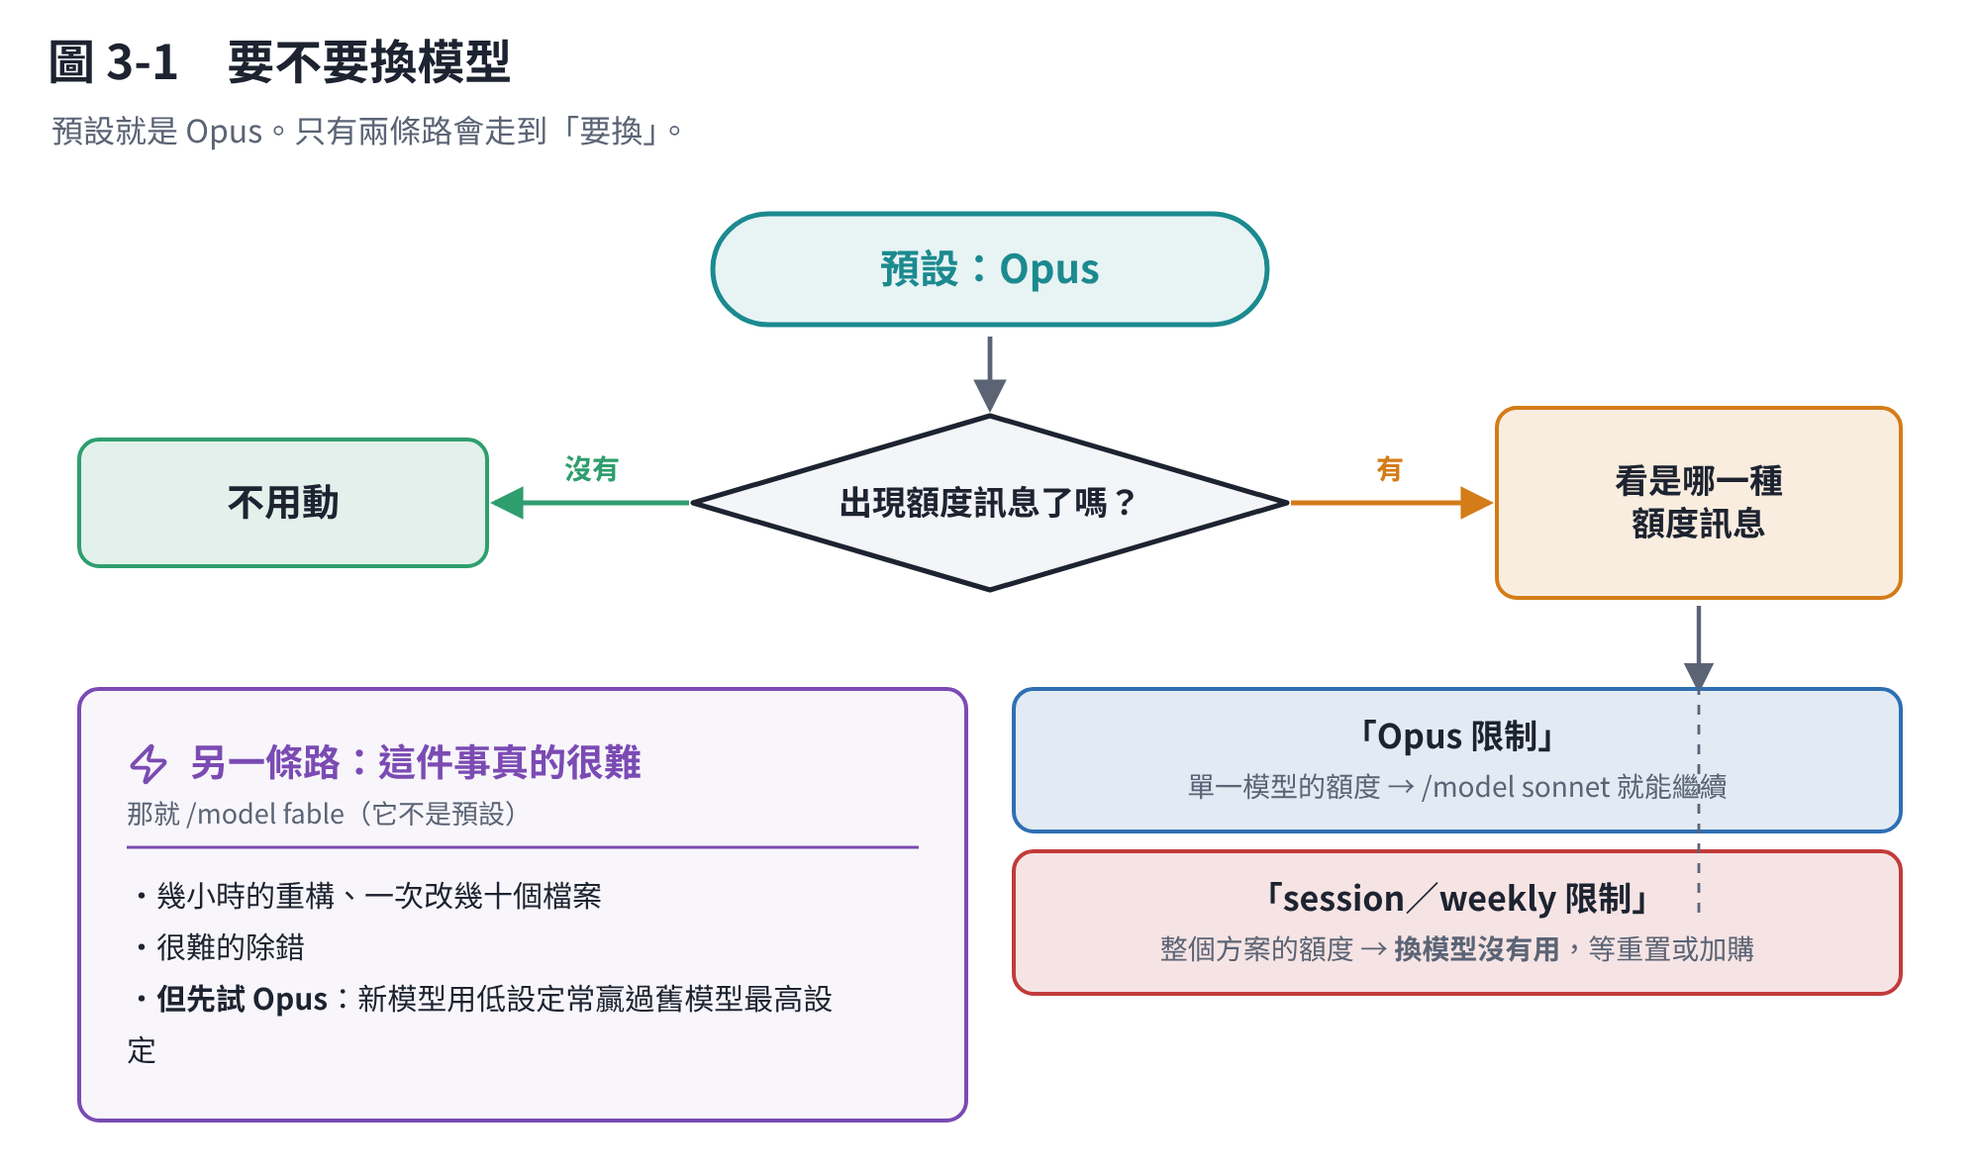
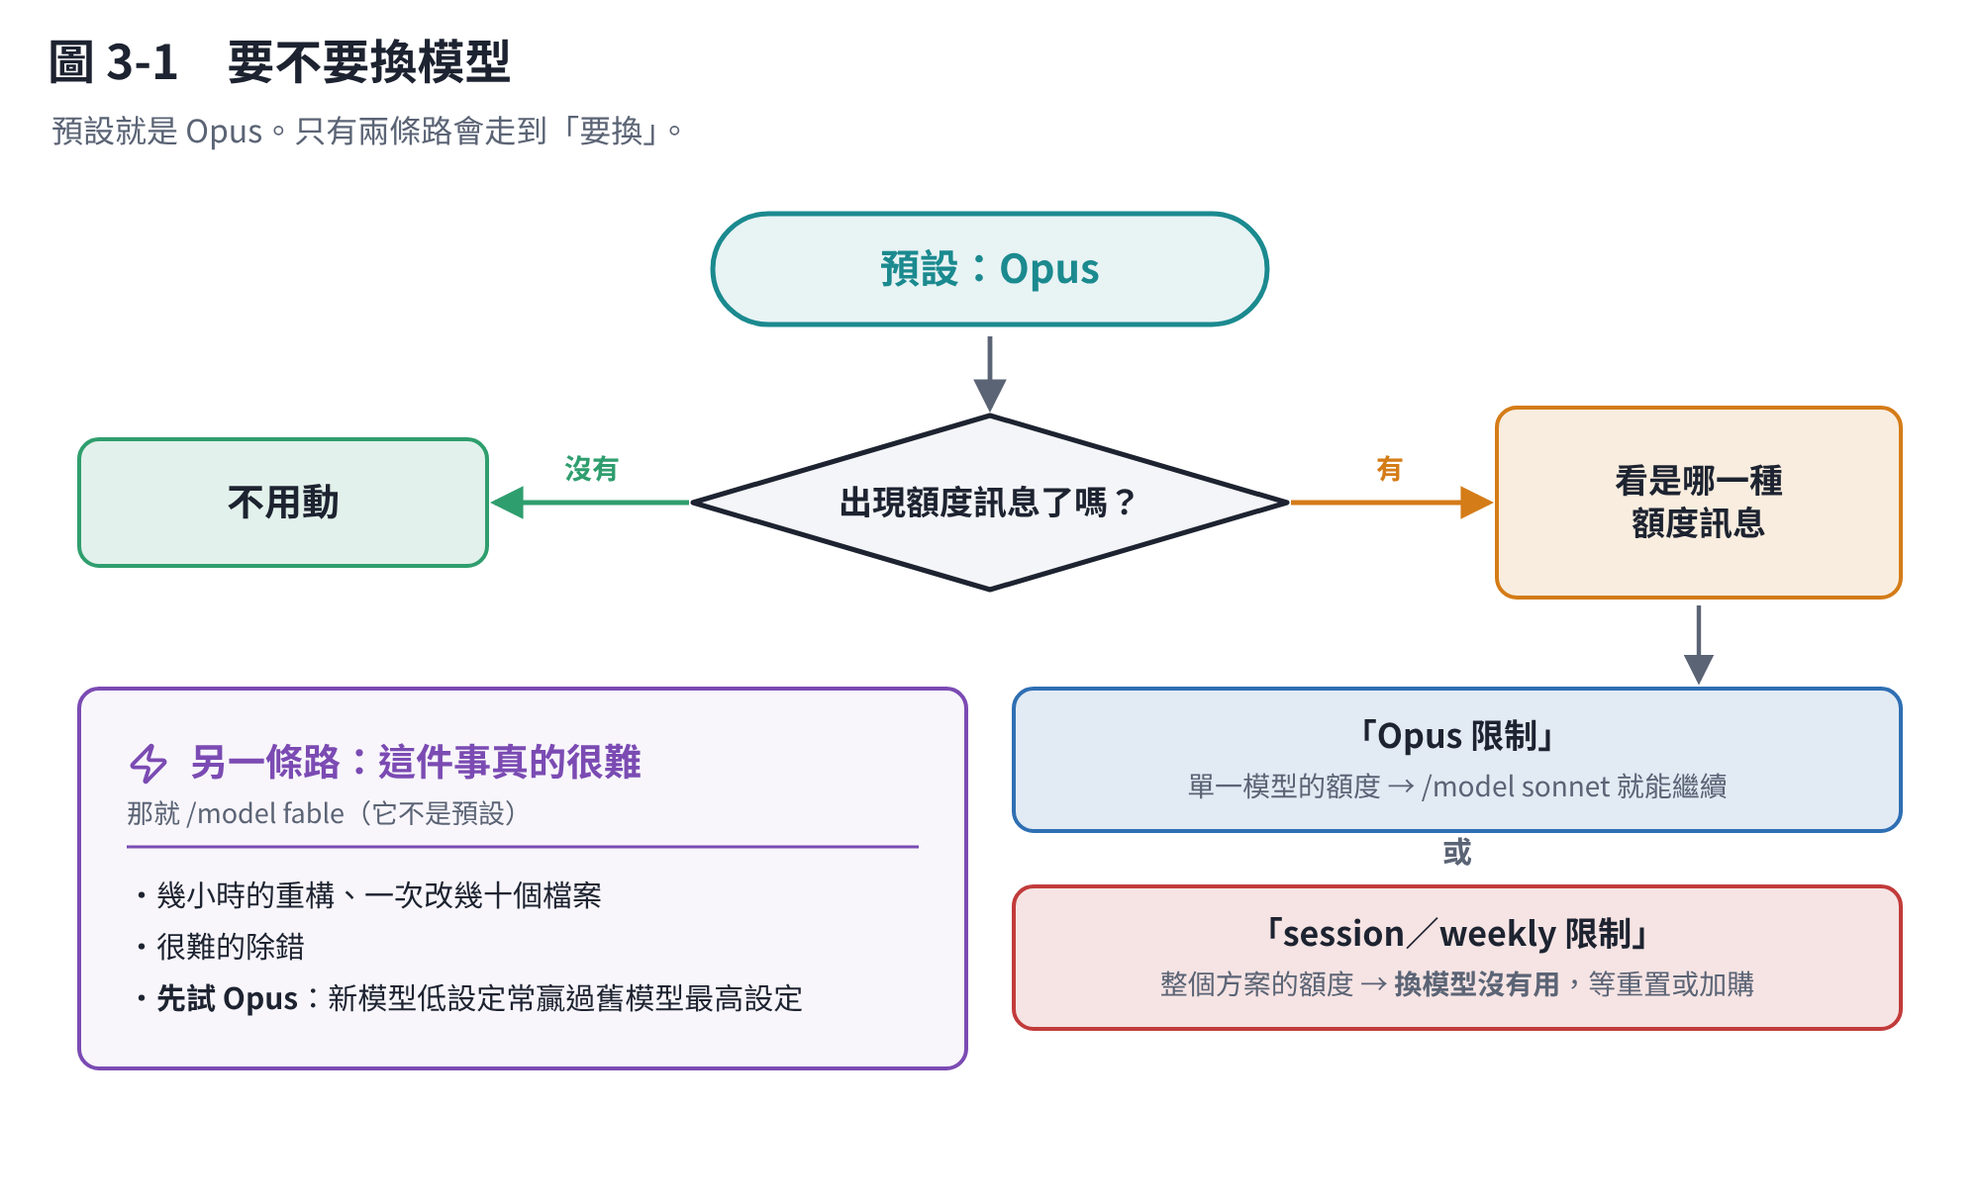
修好 7 張被切掉或排版壞掉的圖，並把這兩類問題加進檢查器
使用者反映上一包教材有些圖不完整。確實有——而且 check_geometry 全綠，
因為它只檢查文字，不檢查方塊。

檢查器補兩條規則（lessons/_tools/check_geometry.py）
- **F 方塊或線條跑出畫布**。card() 會自己算高度，畫布開太矮時卡片下半截直接
  被切掉，但文字通常還在畫布內，所以 A 抓不到。這次就是這樣漏掉三張。
- **G 版面標記沒生效**。兩種：圖上出現字面的反引號（svgkit 不支援），
  以及 `**` 被 wrap() 從中間切斷——落單的 `**` 會被 _rich() 變成一個空的
  斜體 tspan，結果是粗體失效**而且多一個空行**，肉眼很容易當成排版留白。
- parse() 改成跳過帶 transform 的 <g>（icon、旋轉過的群組是區域座標，
  直接比會得到一堆假出界；figr1-4-cell 就被誤報）。
- load_figs() 改成載入 figures/src/ 底下所有 *diagrams*.py。原本只載
  diagrams.py，所以新寫的 cc_diagrams.py 那 12 張**完全沒被檢查過**。

修好的圖
Claude Code 操作篇（這次新增的）
- fc2-1、fc4-1、fc11-1：底部卡片分別超出畫布 65、48、30 px，被切掉。
- fc3-1：那條虛線穿過「單一模型的額度⋯」整行字。虛線本來就多餘，拿掉，
  兩個框之間改放一個「或」。順手把一條會換行的項目縮短。
- fc7-1、fc10-1：右邊卡片的項目變多之後長高，把下面的橫幅壓住。
  （這類「方塊壓方塊」檢查器抓不到，是用 Read 看圖看出來的。）
- fc10-1 另外：Claude Code → AGENTS.md 的箭頭原本穿過下面的 CLAUDE.md 框，
  改從右緣出去。
- fc4-1、fc7-1：** 被換行切斷。

順手修掉既有的（同一類問題，不是這次才有的）
- figr1-2-annotate、figr6-1-audit：底部卡片超出畫布 18、12 px。
- figr0-1-roadmap、figr6-3-erg9：** 被換行切斷（粗體失效＋空行）。

CLAUDE.md 補上這三個坑：svgkit 不支援反引號、card() 換行會切斷粗體、
card() 自己算高度所以畫布要留夠。並註明檢查器抓不到「兩個方塊互相壓到」，
那個還是要用 Read 看圖。

四個檢查都過：check_geometry、check_layout、pytest、lessons --dry-run。

Claude-Session: https://claude.ai/code/session_01TPzWKFdej1zHQvUV5Wdwzb

diff --git a/lessons/using-claude/figures/src/cc_diagrams.py b/lessons/using-claude/figures/src/cc_diagrams.py
@@ -91,7 +91,7 @@ def fig_turn():
 
 def fig_two_budgets():
     """空間和額度是兩回事。"""
-    s = Svg(W, 560, "圖 2-1　空間與額度是兩回事")
+    s = Svg(W, 650, "圖 2-1　空間與額度是兩回事")
     s.text(26, 72, "兩個都叫「token 用量」，但滿了之後發生的事完全不同。", size=16, color=MUTED)
 
     s.card(40, 108, 448, [
@@ -124,7 +124,7 @@ def fig_two_budgets():
 
 def fig_pick_model():
     """換不換模型的決策。"""
-    s = Svg(W, 592, "圖 3-1　要不要換模型")
+    s = Svg(W, 608, "圖 3-1　要不要換模型")
     s.text(26, 72, "預設就是 Opus。只有兩條路會走到「要換」。", size=16, color=MUTED)
 
     s.stadium(360, 108, 280, 56, "預設：Opus", color=TEAL, size=20,
@@ -141,17 +141,17 @@ def fig_pick_model():
             label="有", label_dy=-12, size=14, label_color=ORANGE)
     s.box(756, 206, 204, 96, "看是哪一種\n額度訊息", color=ORANGE, size=17)
 
-    s.arrow([(858, 306), (858, 348)], color=MUTED, width=2.2)
+    s.arrow([(858, 306), (858, 344)], color=MUTED, width=2.2)
     s.box(512, 348, 448, 72, "「Opus 限制」", color=BLUE, size=17,
           sub="單一模型的額度 → /model sonnet 就能繼續", sub_size=14)
-    s.box(512, 430, 448, 72, "「session／weekly 限制」", color=RED, size=17,
+    s.text(736, 436, "或", size=15, weight=700, color=MUTED, anchor="middle")
+    s.box(512, 448, 448, 72, "「session／weekly 限制」", color=RED, size=17,
           sub="整個方案的額度 → **換模型沒有用**，等重置或加購", sub_size=14)
-    s.line(858, 306, 858, 466, color=MUTED, width=1.4, dash=True)
 
     s.card(40, 348, 448, [
         "・幾小時的重構、一次改幾十個檔案",
         "・很難的除錯",
-        "・**但先試 Opus**：新模型用低設定常贏過舊模型最高設定"],
+        "・**先試 Opus**：新模型低設定常贏過舊模型最高設定"],
         title="另一條路：這件事真的很難", sub="那就 /model fable（它不是預設）",
         color=PURPLE, icon="zap", size=15, lh=26)
     return s
@@ -159,7 +159,7 @@ def fig_pick_model():
 
 def fig_effort():
     """五個等級。"""
-    s = Svg(W, 548, "圖 4-1　思考等級：調的是「想多久」")
+    s = Svg(W, 620, "圖 4-1　思考等級：調的是「想多久」")
     s.text(26, 72, "模型沒換，換的是它花多少力氣。多數時候不用動。", size=16, color=MUTED)
 
     levels = [("low", 56, GREY, "問事實、改錯字"), ("medium", 92, BLUE, "日常問答"),
@@ -184,7 +184,7 @@ def fig_effort():
 
     s.card(512, 404, 448, [
         "・多數模型預設 high",
-        "・**Opus 5.5、Sonnet 5.5、Haiku 5.5 預設 medium**",
+        "・**Opus 5.5／Sonnet 5.5／Haiku 5.5 是 medium**",
         "・這幾個模型**關不掉思考**，只能調深淺"],
         title="預設值", color=PURPLE, icon="circle-dot", size=15, lh=26)
     return s
@@ -256,7 +256,7 @@ def fig_layers():
 
 def fig_skill_load():
     """技能分三階段載入。"""
-    s = Svg(W, 560, "圖 7-1　技能平常只有名字在，用到才整份載入")
+    s = Svg(W, 600, "圖 7-1　技能平常只有名字在，用到才整份載入")
     s.text(26, 72, "這是它比 CLAUDE.md 省的原因。", size=16, color=MUTED)
 
     stages = [
@@ -282,13 +282,14 @@ def fig_skill_load():
         size=15, lh=26)
 
     s.card(512, 300, 448, [
-        "・壓縮後每個技能最多 **5,000 token**，全部共用 **25,000**",
+        "・壓縮後每個技能最多 **5,000 token**",
+        "・全部技能共用 **25,000 token**",
         "・截斷是從後面切 → **重要的話寫前面**",
         "・/skill-doctor 找出佔空間卻沒用的"],
         title="技能不是免費的", color=RED, icon="triangle-alert",
         size=15, lh=26)
 
-    s.box(40, 476, 920, 64, "同一套做法做到第三次，就該做一個技能",
+    s.box(40, 512, 920, 64, "同一套做法做到第三次，就該做一個技能",
           color=GREEN, size=19, fill=tint(GREEN, 0.93))
     return s
 
@@ -375,14 +376,14 @@ def fig_when_to_switch():
 
 def fig_handoff():
     """Claude Code 和 Codex 共用規矩。"""
-    s = Svg(W, 600, "圖 10-1　兩個工具怎麼共用同一份規矩")
+    s = Svg(W, 648, "圖 10-1　兩個工具怎麼共用同一份規矩")
     s.text(26, 72, "規矩用 AGENTS.md 共用；進度靠 git 和一份進度檔。", size=16, color=MUTED)
 
     s.box(60, 112, 240, 70, "Claude Code", color=PURPLE, size=19)
     s.box(700, 112, 240, 70, "Codex", color=GREY, size=19)
     s.box(360, 244, 280, 76, "AGENTS.md", color=TEAL, size=20,
           sub="兩邊都讀得到的共通規矩", sub_size=13.5)
-    s.arrow([(200, 190), (420, 238)], color=PURPLE, width=2.4)
+    s.arrow([(304, 162), (486, 238)], color=PURPLE, width=2.4)
     s.arrow([(800, 190), (580, 238)], color=GREY, width=2.4)
 
     s.box(60, 206, 268, 100, "CLAUDE.md", color=PURPLE, size=18,
@@ -404,17 +405,17 @@ def fig_handoff():
         title="進度沒有自動機制", sub="靠這三樣", color=ORANGE, icon="git-branch",
         size=15, lh=26)
 
-    s.box(40, 512, 920, 72, "", color=GREEN, fill=tint(GREEN, 0.95))
-    s.icon("circle-help", 72, 540, 24, GREEN, 2.1)
-    s.text(116, 546, "先問一句：你為什麼要兩個都用？", size=17, weight=700, color=GREEN)
-    s.text(116, 572, "如果只是因為額度用完了，/model sonnet 換個模型繼續比較簡單，"
+    s.box(40, 556, 920, 72, "", color=GREEN, fill=tint(GREEN, 0.95))
+    s.icon("circle-help", 72, 584, 24, GREEN, 2.1)
+    s.text(116, 590, "先問一句：你為什麼要兩個都用？", size=17, weight=700, color=GREEN)
+    s.text(116, 616, "如果只是因為額度用完了，/model sonnet 換個模型繼續比較簡單，"
                      "不用維護兩套設定。", size=15)
     return s
 
 
 def fig_day():
     """一天的工作流。"""
-    s = Svg(W, 600, "圖 11-1　一天大概長這樣")
+    s = Svg(W, 756, "圖 11-1　一天大概長這樣")
     s.text(26, 72, "照這個順序做，大部分的浪費都避開了。", size=16, color=MUTED)
 
     steps = [
@@ -440,10 +441,10 @@ def fig_day():
             yy += 26
         y += h + 14
 
-    s.box(40, 500, 920, 84, "", color=RED, fill=tint(RED, 0.95))
-    s.icon("triangle-alert", 72, 530, 24, RED, 2.1)
-    s.text(116, 536, "最常犯的兩個錯", size=18, weight=700, color=RED)
-    s.text(116, 566, "**① 捨不得 /clear**（整天的對話，問一句都在重送整天的東西）"
+    s.box(40, 654, 920, 84, "", color=RED, fill=tint(RED, 0.95))
+    s.icon("triangle-alert", 72, 684, 24, RED, 2.1)
+    s.text(116, 690, "最常犯的兩個錯", size=18, weight=700, color=RED)
+    s.text(116, 720, "**① 捨不得 /clear**（整天的對話，問一句都在重送整天的東西）"
                      "　**② 等它做完才講它做錯了**", size=15.5)
     return s
 

diff --git a/lessons/_tools/check_geometry.py b/lessons/_tools/check_geometry.py
@@ -13,6 +13,8 @@
 - C 文字被「畫在它後面」的不透明矩形蓋住（SVG 是後畫的蓋前畫的）
 - D 文字壓在線條或箭頭上，而且底下沒有白底遮罩
 - E 箭頭有斜線段（只是提醒；教材有幾張是刻意畫斜的）
+- F 方塊或線條跑出畫布（A 只看文字，所以卡片底部被切掉它抓不到）
+- G 版面標記沒生效：圖上出現字面的反引號，或 `**` 被換行切斷（粗體失效＋多一個空行）
 
 文字寬度用 svgkit 的 `_text_w()` 估，和畫圖時用的是同一支函式，所以誤差一致。
 
@@ -47,6 +49,7 @@ PAD_Y = 2.0      # 上下同理
 MIN_OVERLAP = 4.0   # 重疊要超過這麼多 px 才報，避免標點擦邊
 EDGE_TOL = 4.0      # 出界容忍：_text_w() 把全形標點當 1em，會高估一點
 BITE = 3.0          # 線要吃進文字框這麼多 px 才算「壓在線上」，擦邊不算
+SHAPE_TOL = 1.0     # 方塊出界容忍：框線有寬度，剛好切齊邊緣也會被切掉半條
 ASCENT, DESCENT = 0.78, 0.22        # 相對於 font-size 的上緣與下緣
 WHITE = {"#ffffff", "#fff", "white"}
 
@@ -86,7 +89,19 @@ def parse(svg_text: str):
     """回傳 (文字框, 不透明矩形, 線段)，三者都帶繪製順序 i。"""
     root = ET.fromstring(svg_text)
     texts, rects, segs = [], [], []
-    for i, el in enumerate(root.iter()):
+
+    def walk(node, out, depth=0):
+        for child in node:
+            # 帶 transform 的群組（icon、旋轉過的東西）裡面是區域座標，
+            # 直接拿來比會得到一堆假的出界。整個子樹跳過。
+            if child.tag == NS + "g" and child.get("transform"):
+                continue
+            out.append(child)
+            walk(child, out)
+
+    flat = []
+    walk(root, flat)
+    for i, el in enumerate(flat):
         tag = el.tag
         if tag == NS + "text":
             s = _plain(el)
@@ -176,6 +191,36 @@ def check_svg(name: str, svg_text: str, w: int, h: int, skip: set[str]) -> list[
                 bad.append(f"D 文字壓在線上又沒有遮罩：「{t.what[:26]}」{t}")
                 break
 
+    if "F" not in skip:
+        # card() 會自己算高度，所以畫布開太矮的時候，卡片下半截會直接被切掉。
+        # A 只看文字，文字通常還在畫布內，所以這種問題它抓不到——實際踩過三次。
+        worst = {}
+        for r in rects:
+            for edge, over in (("下", r.y1 - h), ("右", r.x1 - w),
+                               ("上", -r.y0), ("左", -r.x0)):
+                if over > SHAPE_TOL and over > worst.get(edge, (0, None))[0]:
+                    worst[edge] = (over, r)
+        for x1, y1, x2, y2, _, _ in segs:
+            for edge, over in (("下", max(y1, y2) - h), ("右", max(x1, x2) - w),
+                               ("上", -min(y1, y2)), ("左", -min(x1, x2))):
+                if over > SHAPE_TOL and over > worst.get(edge, (0, None))[0]:
+                    worst[edge] = (over, None)
+        for edge, (over, r) in sorted(worst.items()):
+            where = f"：{r} {r.what}" if r is not None else "（線條）"
+            bad.append(f"F 方塊/線條超出畫布{edge}緣 {over:.0f} px（{w}×{h}）{where}")
+
+    if "G" not in skip:
+        # svgkit 不支援反引號，會原樣印在圖上。
+        for t in texts:
+            if "`" in t.what:
+                bad.append(f"G 圖上出現字面的反引號（svgkit 不支援）：「{t.what[:40]}」")
+        # wrap() 會從 **粗體** 中間切斷。切斷之後 _rich() 把落單的 ** 變成一個
+        # 空的斜體 tspan：粗體失效，而且那一行變成空行。實際踩過。
+        n_eaten = svg_text.count('<tspan font-style="italic"></tspan>')
+        if n_eaten:
+            bad.append(f"G ** 被換行切斷 {n_eaten} 處（粗體失效，多一個空行）"
+                       "——把那一項縮短到一行，或拆成兩項")
+
     note = 0
     if "E" not in skip:
         note = sum(1 for x1, y1, x2, y2, _, arrow in segs
@@ -189,16 +234,24 @@ def check_svg(name: str, svg_text: str, w: int, h: int, skip: set[str]) -> list[
 
 
 def load_figs(course: Path) -> dict[str, Svg]:
-    src = course / "figures/src/diagrams.py"
-    if not src.exists():
+    """載入這門課 figures/src/ 底下所有 *diagrams*.py 的 FIGS。
+
+    一門課可能有不只一支（using-claude 的操作篇在 cc_diagrams.py），
+    漏掉就等於那些圖完全沒檢查。
+    """
+    srcs = sorted((course / "figures/src").glob("*diagrams*.py"))
+    if not srcs:
         return {}
-    sys.path.insert(0, str(src.parent))
     import importlib.util
-    spec = importlib.util.spec_from_file_location(f"_dg_{course.name}", src)
-    mod = importlib.util.module_from_spec(spec)
-    spec.loader.exec_module(mod)
-    sys.path.pop(0)
-    return {k: fn() for k, fn in mod.FIGS.items()}
+    figs = {}
+    for src in srcs:
+        sys.path.insert(0, str(src.parent))
+        spec = importlib.util.spec_from_file_location(f"_dg_{course.name}_{src.stem}", src)
+        mod = importlib.util.module_from_spec(spec)
+        spec.loader.exec_module(mod)
+        sys.path.pop(0)
+        figs.update({k: fn() for k, fn in mod.FIGS.items()})
+    return figs
 
 
 def main(argv=None):

diff --git a/lessons/dna-to-culture/figures/src/diagrams.py b/lessons/dna-to-culture/figures/src/diagrams.py
@@ -388,7 +388,7 @@ def figr1_compare():
 
 
 def figr1_annotate():
-    s = Svg(1200, 660, "圖 1-2　酵母菌的註解流程：和細菌版（圖 2-1）哪裡不一樣")
+    s = Svg(1200, 696, "圖 1-2　酵母菌的註解流程：和細菌版（圖 2-1）哪裡不一樣")
     s.text(24, 70, "路線 A：已知是 S. cerevisiae 或近緣種 → 用參考基因體比對（快、準、建議優先）", size=17,
            weight=700, color=GREEN)
     a = [("定序讀段", "Illumina 或\nNanopore", GREY),
@@ -1858,7 +1858,7 @@ def figr6_audit():
     """核對清單：七項自己重算，對上了幾項。"""
     d = _afs()
     v, e = d["verify"], d["envelope_default"]
-    s = Svg(WR6, 1000, "圖 6-1　別人給的模型，我自己重算一次")
+    s = Svg(WR6, 1032, "圖 6-1　別人給的模型，我自己重算一次")
     s.text(40, 78, "**不是重述它的說法，是把每個數字自己再跑一次。** "
                    "七項裡六項完全對上，一項要加註解。", size=17, color=MUTED)
 
@@ -1969,7 +1969,7 @@ def figr6_erg9():
     by = hy + 48 + len(rows) * 52 + 24
 
     h = s.card(40, by, 450, [
-        "ERG9 調到 10% → 產物從 1.38 升到 2.50，**多 81%**",
+        "**多 81%**：ERG9 調到 10%，產物 1.38 升到 2.50",
         "看起來值得做一個菌株",
     ], title="用「各自一半生長」比", icon="triangle-alert", color=ORANGE, size=16,
         foot="但每一列的生長速率都不一樣，不能這樣比")
@@ -2174,7 +2174,7 @@ def figr0_roadmap():
 
     s.card(730, 150, 230, [
         "紅酵母 **IFO 8766**",
-        "蘋果 **α-farnesene 合成酶**",
+        "蘋果的 α-farnesene 合成酶",
         "農桿菌隨機嵌入",
         "**11 份完整拷貝**",
     ], title="這株菌", icon="dna", color=INK, size=15,

diff --git a/CLAUDE.md b/CLAUDE.md
@@ -76,6 +76,11 @@ lessons/<課程名>/
     不要按字數切——按字數會把 `R. toruloides` 切成 `R. t` ＋ `oruloides`。
   - `svgkit` 的 `_rich()` 支援行內 `**粗體**`、`*斜體*` 與 `\_` `\^` 轉義；
     要印出字面的星號或底線就用轉義。
+  - **`svgkit` 不支援反引號**，`` `/clear` `` 會把反引號原樣印在圖上。圖裡不要用。
+  - **`card()` 的自動換行會從 `**粗體**` 中間切斷**，切斷之後粗體失效，而且會多出一個空行
+    （落單的 `**` 變成一個空的斜體 tspan）。每一項盡量一行講得完，或把粗體擺在句首。
+  - **`card()` 會自己算高度**，所以畫布開太矮時卡片下半截會直接被切掉——
+    文字可能還在畫布內，所以「文字出界」那條規則抓不到。
   - `s.icon()` 的名稱打錯會丟 `KeyError`，不會靜靜少畫一個圖示。
     要新圖示就把 Lucide 的 path 加進 `lessons/_tools/icons.py`。
   - 新章節用到字型子集沒有的字，圖上會變成 fallback 字體。
@@ -83,7 +88,10 @@ lessons/<課程名>/
     （先 `npm install @fontsource/noto-sans-tc@5.2.5`，裝在 scratchpad 就好）。
 - **版面要檢查**，兩支互補的檢查器推送前都要跑：
   - `python lessons/_tools/check_geometry.py`——一張圖**裡面**的幾何：
-    文字跑出畫布、兩段文字重疊、文字被後畫的方塊蓋住、文字壓在線上沒有遮罩。
+    A 文字跑出畫布、B 兩段文字重疊、C 文字被後畫的方塊蓋住、D 文字壓在線上沒有遮罩、
+    **F 方塊或線條跑出畫布**、**G 版面標記沒生效**（字面的反引號、`**` 被換行切斷）。
+    它會載入 `figures/src/` 底下**所有** `*diagrams*.py`，所以一門課有不只一支也查得到。
+    **但它抓不到「兩個方塊互相壓到」**（卡片之間本來就會巢狀），那個還是要用 Read 看圖。
   - `python lessons/_tools/check_layout.py`——Folio **頁面上**文字區塊與圖片會不會疊。
   連線的六條規則與反模式清單寫在 `.claude/skills/lesson-chapter/SKILL.md`，畫圖前先看一遍。
 - **顏色、字級、間距都在 `lessons/_tools/tokens.py`**，不要在個別的 `diagrams.py` 裡寫色碼。
